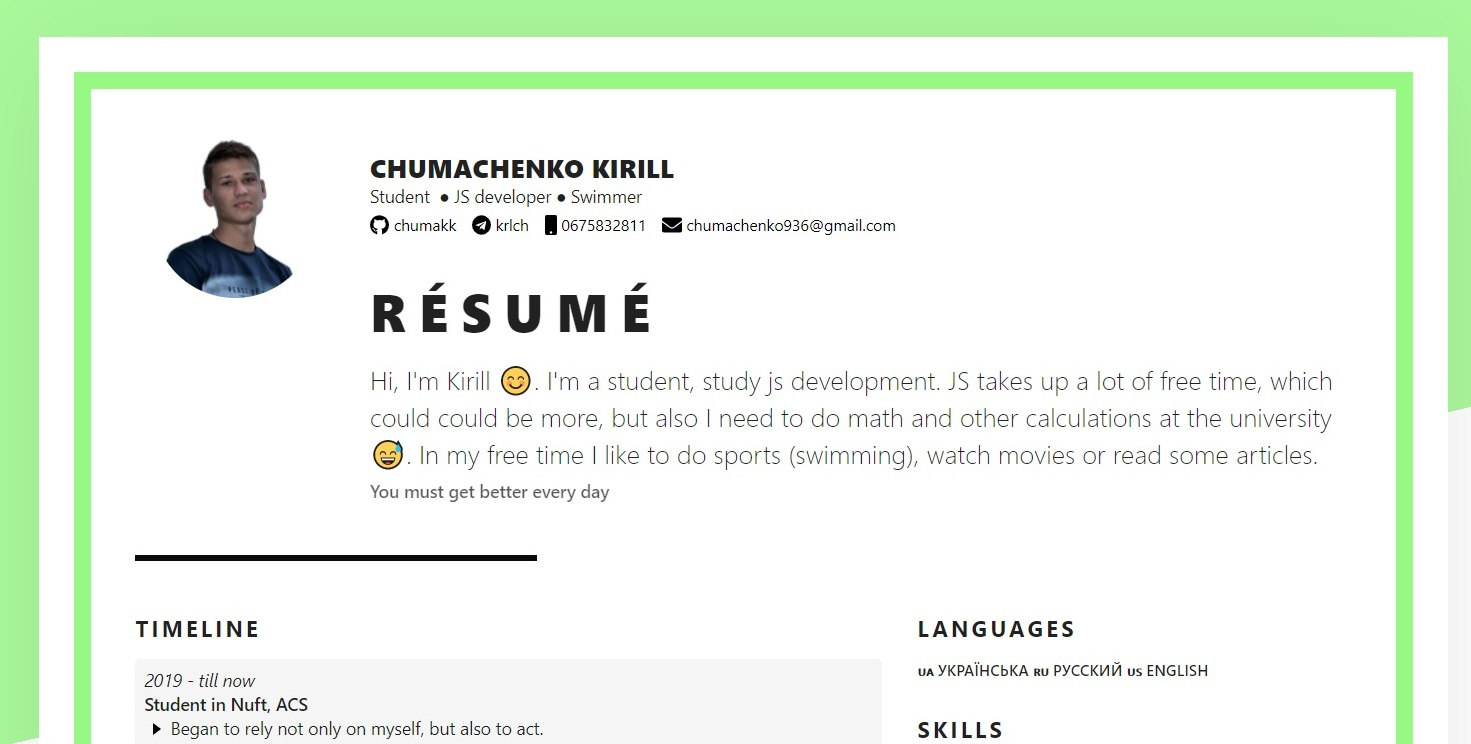
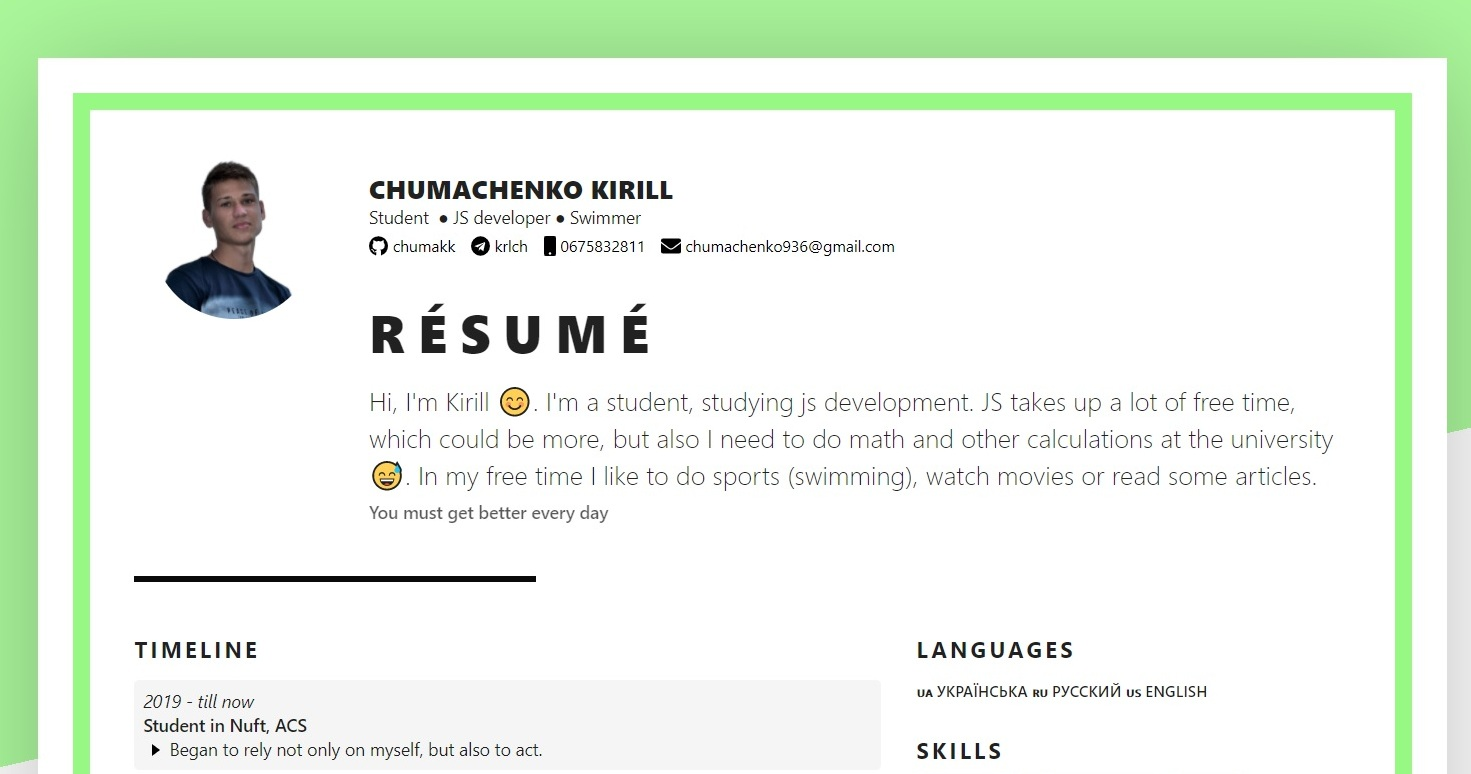
Fixed html errors (closes #36 )

diff --git a/index.html b/index.html
@@ -12,6 +12,8 @@
     <meta property="og:title" content="Chumachenko Kirill Résumé" />
     <meta property="og:image:type" content="image/png" />
     <meta property="og:image" content="assets/images/ogimage.jpg" />
+    <meta property="og:image:width" content="1471" />
+    <meta property="og:image:height" content="774" />
     <meta property="og:type" content="website" />
     <link
       rel="icon"
@@ -266,10 +268,9 @@
                     <p>
                       Hi, I'm Kirill &#x1F60A;. I'm a student, studying js
                       development. JS takes up a lot of free time, which could
-                      could be more, but also I need to do math and other
-                      calculations at the university &#x1F605;. In my free time
-                      I like to do sports (swimming), watch movies or read some
-                      articles.
+                      be more, but also I need to do math and other calculations
+                      at the university &#x1F605;. In my free time I like to do
+                      sports (swimming), watch movies or read some articles.
                     </p>
                     <p style="opacity: 0.75">
                       <strong>You must get better every day</strong>
@@ -318,16 +319,16 @@
                     </li>
                     <li>
                       <p><i>2017 - 2019</i></p>
-                      <p><strong>Student in OMK, SE</strong></p>
+                      <p><strong>Student in OMC, SE</strong></p>
                       <ul>
                         <li class="details">
-                          <input type="checkbox" id="studentOMK" />
-                          <label for="studentOMK" class="summary"
+                          <input type="checkbox" id="studentOMC" />
+                          <label for="studentOMC" class="summary"
                             >It was my first step to becoming a developer, but
-                            after a few months I realized there studing more
-                            school subjects, not programming, so i decided
-                            prepare ZNO and went to university after second
-                            course.</label
+                            after a few months I realized there studying more
+                            school subjects, not programming, so I decided to
+                            prepare for ZNO and went to university after the
+                            second course.</label
                           >
                           <div>
                             <ul>
@@ -417,7 +418,7 @@
                   <h3>Likes&#x1f603;</h3>
                   <p class="tags small custom-tags">
                     <span class="custom-tag">HUMOR</span>
-                    <span class="custom-tag">SILENCE BUT SOMETIMES NOICE</span>
+                    <span class="custom-tag">SILENCE BUT SOMETIMES NOISE</span>
                     <span class="custom-tag">CARS</span>
                     <span class="custom-tag">ANIMALS</span>
                     <span class="custom-tag"
@@ -431,7 +432,7 @@
                 <section>
                   <h3>Dislikes&#x1f61e;</h3>
                   <p class="tags small custom-tags">
-                    <span class="custom-tag">NOICE BUT SOMETIMES SILENCE</span>
+                    <span class="custom-tag">NOISE BUT SOMETIMES SILENCE</span>
                     <span class="custom-tag">CIGARETTES SMOKE</span>
                     <span class="custom-tag">THEORY OF PROBABILITY</span>
                   </p>
@@ -439,9 +440,9 @@
                 <section>
                   <h3>DESIRES&#x1F92B;</h3>
                   <p class="tags small bulleted">
-                    <span class="tag">Have free time(...who dosen't)</span>
+                    <span class="tag">Have free time(...who doesn't)</span>
                     <span class="tag">Do not be afraid to look foolish</span>
-                    <span class="tag">Make someting significant</span>
+                    <span class="tag">Make something significant</span>
                   </p>
                 </section>
                 <section>
